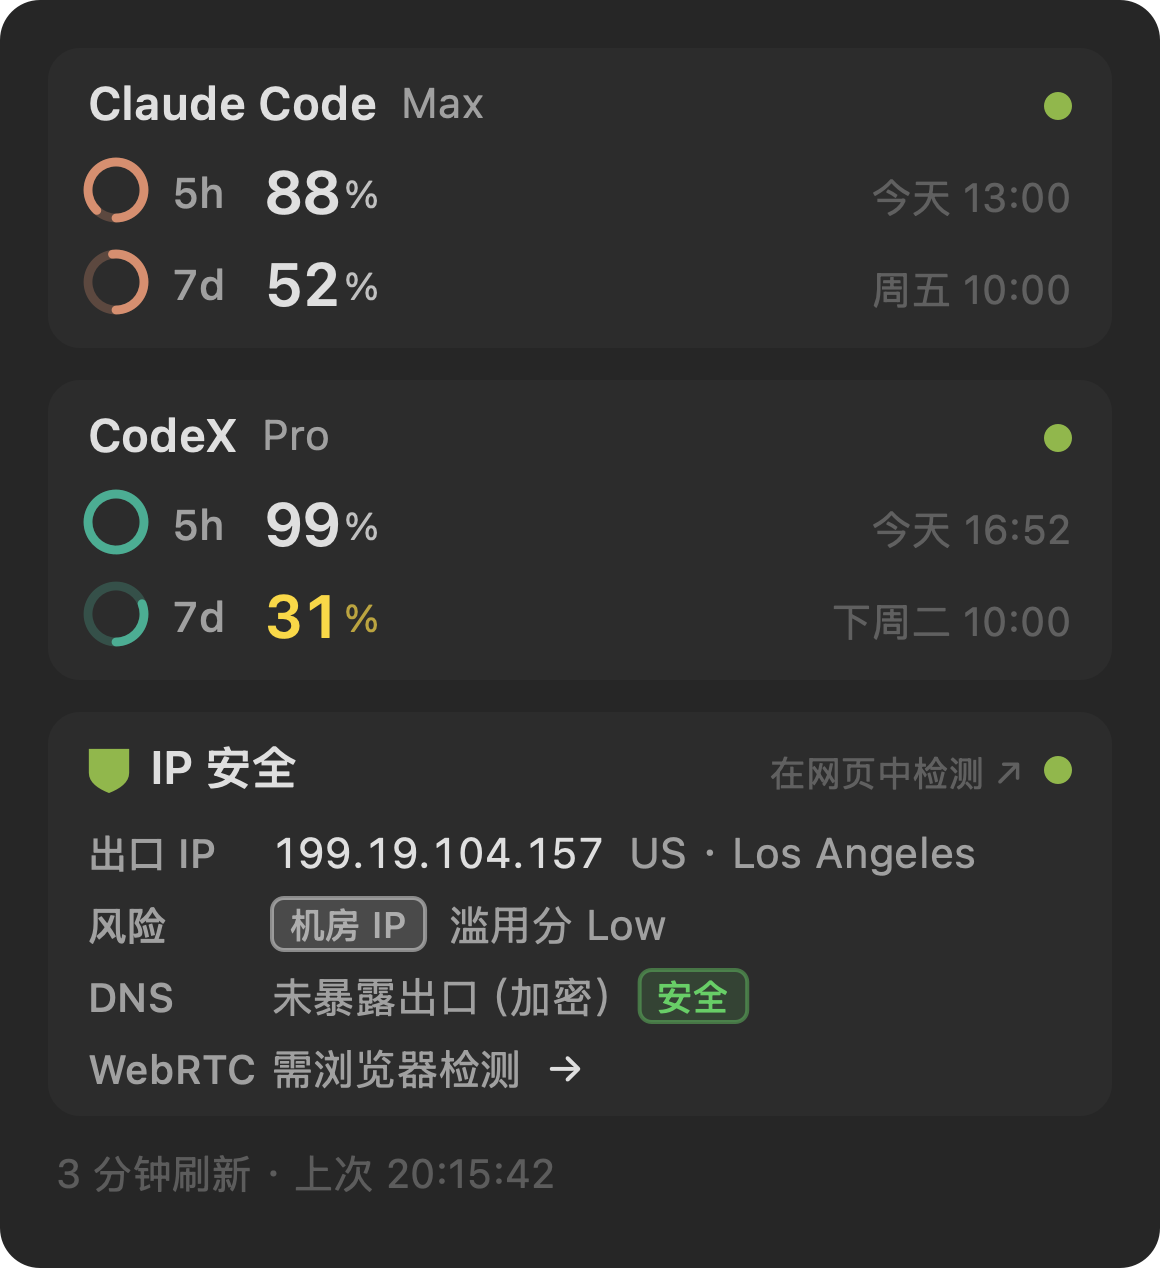
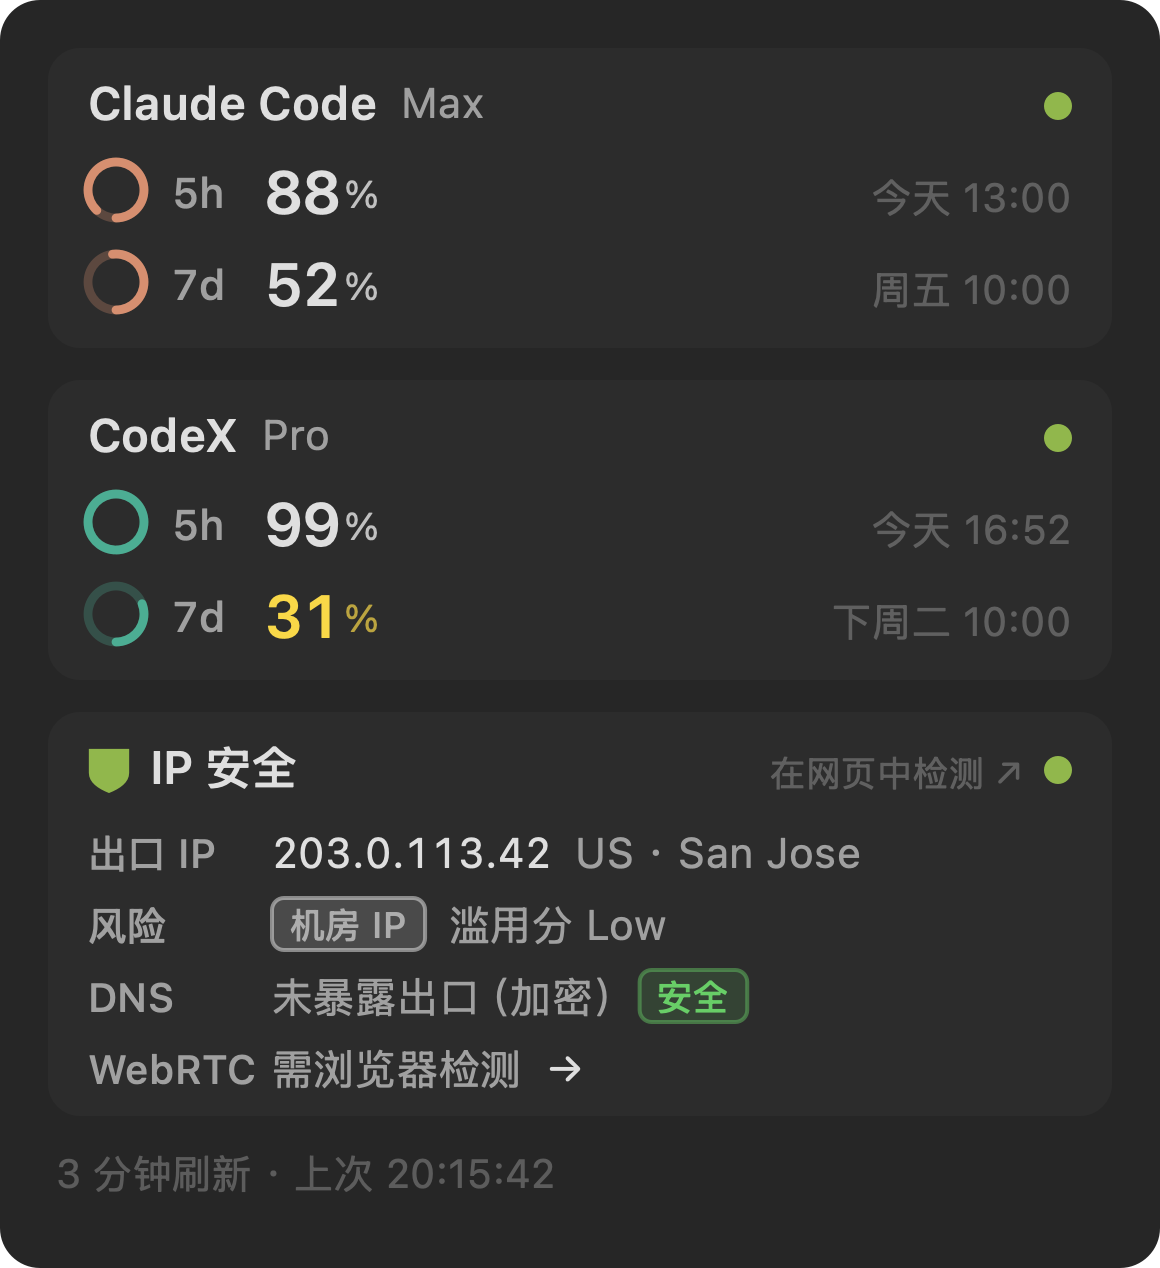
docs: 截图与文档脱敏，真实出口 IP 换成 RFC 5737 示例地址
仓库是公开的，配图和文档里长期挂着真实出口 IP（含机房归属）不合适。
不用马赛克——直接用示例数据重新渲染，图更干净也不留痕迹：
- 三张面板截图重生成为 203.0.113.42 / US · San Jose
- 设计文档三处实测记录一并替换
- panelui payload 示例注释同步

Changed region(s): [[0.4034, 0.6459, 0.8379, 0.7074], [0.2483, 0.6459, 0.3724, 0.7074]]

diff --git a/menubar/panelui.py b/menubar/panelui.py
@@ -224,8 +224,8 @@ class PanelView(AppKit.NSView):
         {"kind": "ip", "icon": "shield", "title": "IP 安全", "hint": "在网页中检测 ↗",
          "status_color": "#76AD2A", "error": None,
          "rows": [{"label": "出口 IP", "parts": [
-                     {"t": "text", "s": "199.19.104.157", "mono": True},
-                     {"t": "text", "s": "US · Los Angeles", "dim": True},
+                     {"t": "text", "s": "203.0.113.42", "mono": True},
+                     {"t": "text", "s": "US · San Jose", "dim": True},
                      {"t": "tag",  "s": "机房 IP", "tone": None}]}, ...]},
       ],
       "footer": "1 分钟刷新 · 上次 11:52:58",

diff --git a/docs/superpowers/specs/2026-07-26-ip-security-design.md b/docs/superpowers/specs/2026-07-26-ip-security-design.md
@@ -18,9 +18,9 @@
 
 | 接口 | 用途 | 实测结果 |
 |---|---|---|
-| `https://claude.ai/cdn-cgi/trace` | Claude 视角的出口 IP + 可用性 | ✅ `ip=199.19.104.157 loc=US colo=LAX warp=off` |
+| `https://claude.ai/cdn-cgi/trace` | Claude 视角的出口 IP + 可用性 | ✅ `ip=203.0.113.42 loc=US colo=SJC warp=off` |
 | `https://ip.net.coffee/api/iprisk/<ip>` | IP 风险判定（信任分原始数据） | ✅ `is_datacenter=true, is_vpn/proxy/tor/abuser=false, abuser_score="0.0039 (Low)", company_type="hosting"` |
-| `https://ip.net.coffee/api/geoip/<ip>` | 地理与 ISP | ✅ `United States / California / Los Angeles / IT7 Networks Inc` |
+| `https://ip.net.coffee/api/geoip/<ip>` | 地理与 ISP | ✅ `United States / California / San Jose / Example Networks Inc` |
 | `https://ip.net.coffee/api/dns/result/<token>` | DNS 泄露检测结果 | ✅ 返回 `dns_servers: []`（即"未暴露出口"）|
 
 **DNS 检测机制**（从页面源码逆向）：客户端生成随机 token → 向 `<token>-1.d.ip.net.coffee` 和 `<token>-2.d.ip.net.coffee` 发起解析（页面用 `<img>` 触发，我们用 `socket.getaddrinfo`）→ 该站自建权威 DNS 记录下"是谁来解析的" → 轮询 `/api/dns/result/<token>` 取回 DNS 出口 IP 列表。
@@ -77,7 +77,7 @@ WebRTC 泄露必须由浏览器建立 `RTCPeerConnection` 并收集 ICE candidat
 
 ```
 🛡 IP 安全                    ●     [悬停显示：在网页中检测 ↗]
-出口 IP   199.19.104.157  US · Los Angeles
+出口 IP   203.0.113.42  US · San Jose
 风险      [机房 IP]  滥用分 Low
 DNS       未暴露出口（加密）  [安全]
 WebRTC    需浏览器检测  →
